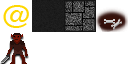
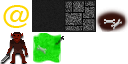
Add Ooze creature with AcidicBlood trait

Changed region(s): [[0.0, 0.5, 0.5, 1.0], [0.0625, 0.5, 0.1875, 0.6875]]

diff --git a/lib/roguevolution/creature.rb b/lib/roguevolution/creature.rb
@@ -1,12 +1,14 @@
 module Roguevolution
   class Creature
-    attr_reader :health, :tile_type, :unarmed_attack_die, :traits
+    attr_reader :health, :max_health, :tile_type, :unarmed_attack_die,
+      :traits
     attr_accessor :position
 
     def initialize(dungeon, hit_die, unarmed_attack_die, tile_type)
       @dungeon, @tile_type, @unarmed_attack_die = dungeon, tile_type, unarmed_attack_die
       @awake = false
-      @health = RNG.max_roll(hit_die)
+      @max_health = RNG.max_roll(hit_die)
+      @health = @max_health
       @position = Point.new
       @traits = []
     end
@@ -16,7 +18,7 @@ module Roguevolution
     end
 
     def attack(creature)
-      creature.inflict(roll_damage)
+      creature.inflict(self, roll_damage)
     end
 
     def alive?
@@ -24,7 +26,8 @@ module Roguevolution
     end
 
     def award_trait(creature)
-      @traits << creature.traits.sample
+      trait = creature.traits.sample
+      @traits << trait unless trait.nil?
     end
 
     def damage_die
@@ -35,7 +38,19 @@ module Roguevolution
       @traits.collect {|trait| trait.unarmed_modifier }.inject(0, :+)
     end
 
-    def inflict(damage)
+    def inflict(inflictor, damage)
+      num_acid = @traits.select {|trait|
+        trait.class == Trait::AcidicBlood
+      }.length
+
+      if inflictor && num_acid > 0
+        num_acid.times do
+          if Trait::AcidicBlood.roll_chance
+            inflictor.inflict(nil, Trait::AcidicBlood.roll_damage)
+          end
+        end
+      end
+
       @health -= damage
     end
 

diff --git a/lib/roguevolution/dungeon_generator.rb b/lib/roguevolution/dungeon_generator.rb
@@ -67,7 +67,12 @@ module Roguevolution
               position = random_position unless @tiles[[random_position.x, random_position.y]].creature
             end
 
-            creature = Creatures::Kobold.new(@dungeon)
+            creature_type = Random.rand(0..1)
+            if creature_type == 0
+              creature = Creatures::Ooze.new(@dungeon)
+            else
+              creature = Creatures::Kobold.new(@dungeon)
+            end
             creature.position = position
             @tiles[[position.x, position.y]].creature = creature
             @creatures << creature
@@ -80,7 +85,6 @@ module Roguevolution
     end
 
     private
-
 
     # Carves out a room
     def create_room(rect)

diff --git a/lib/roguevolution/traits.rb b/lib/roguevolution/traits.rb
@@ -21,5 +21,21 @@ module Roguevolution
         @unarmed_modifier = 1
       end
     end
+
+    class AcidicBlood < Trait
+      DAMAGE_DIE = "1d2"
+
+      def self.roll_chance
+        Random.rand(0..2) == 0
+      end
+
+      def self.roll_damage
+        RNG.roll(DAMAGE_DIE)
+      end
+
+      def initialize
+        super("Acidic Blood")
+      end
+    end
   end
 end

diff --git a/lib/roguevolution/creatures/ooze.rb b/lib/roguevolution/creatures/ooze.rb
@@ -1,0 +1,15 @@
+module Roguevolution
+  module Creatures
+    class Ooze < Creature
+      HIT_DIE = "1d8"
+      UNARMED_ATTACK_DIE = "1d4"
+      TILE = :ooze
+
+      def initialize(dungeon)
+        super(dungeon, HIT_DIE, UNARMED_ATTACK_DIE, TILE)
+        @traits << Trait::AcidicBlood.new
+      end
+    end
+  end
+end
+

diff --git a/lib/roguevolution/tilebank.rb b/lib/roguevolution/tilebank.rb
@@ -1,6 +1,6 @@
 module Roguevolution
   class Tilebank
-    TILES = [:player, :wall, :floor, :blood, :kobold]
+    TILES = [:player, :wall, :floor, :blood, :kobold, :ooze]
 
     def self.[](type)
       TILES.find_index(type)

diff --git a/lib/roguevolution.rb b/lib/roguevolution.rb
@@ -1,5 +1,6 @@
 require "roguevolution/creature"
 require "roguevolution/creatures/kobold"
+require "roguevolution/creatures/ooze"
 
 require "roguevolution/a_star_node"
 require "roguevolution/point"
